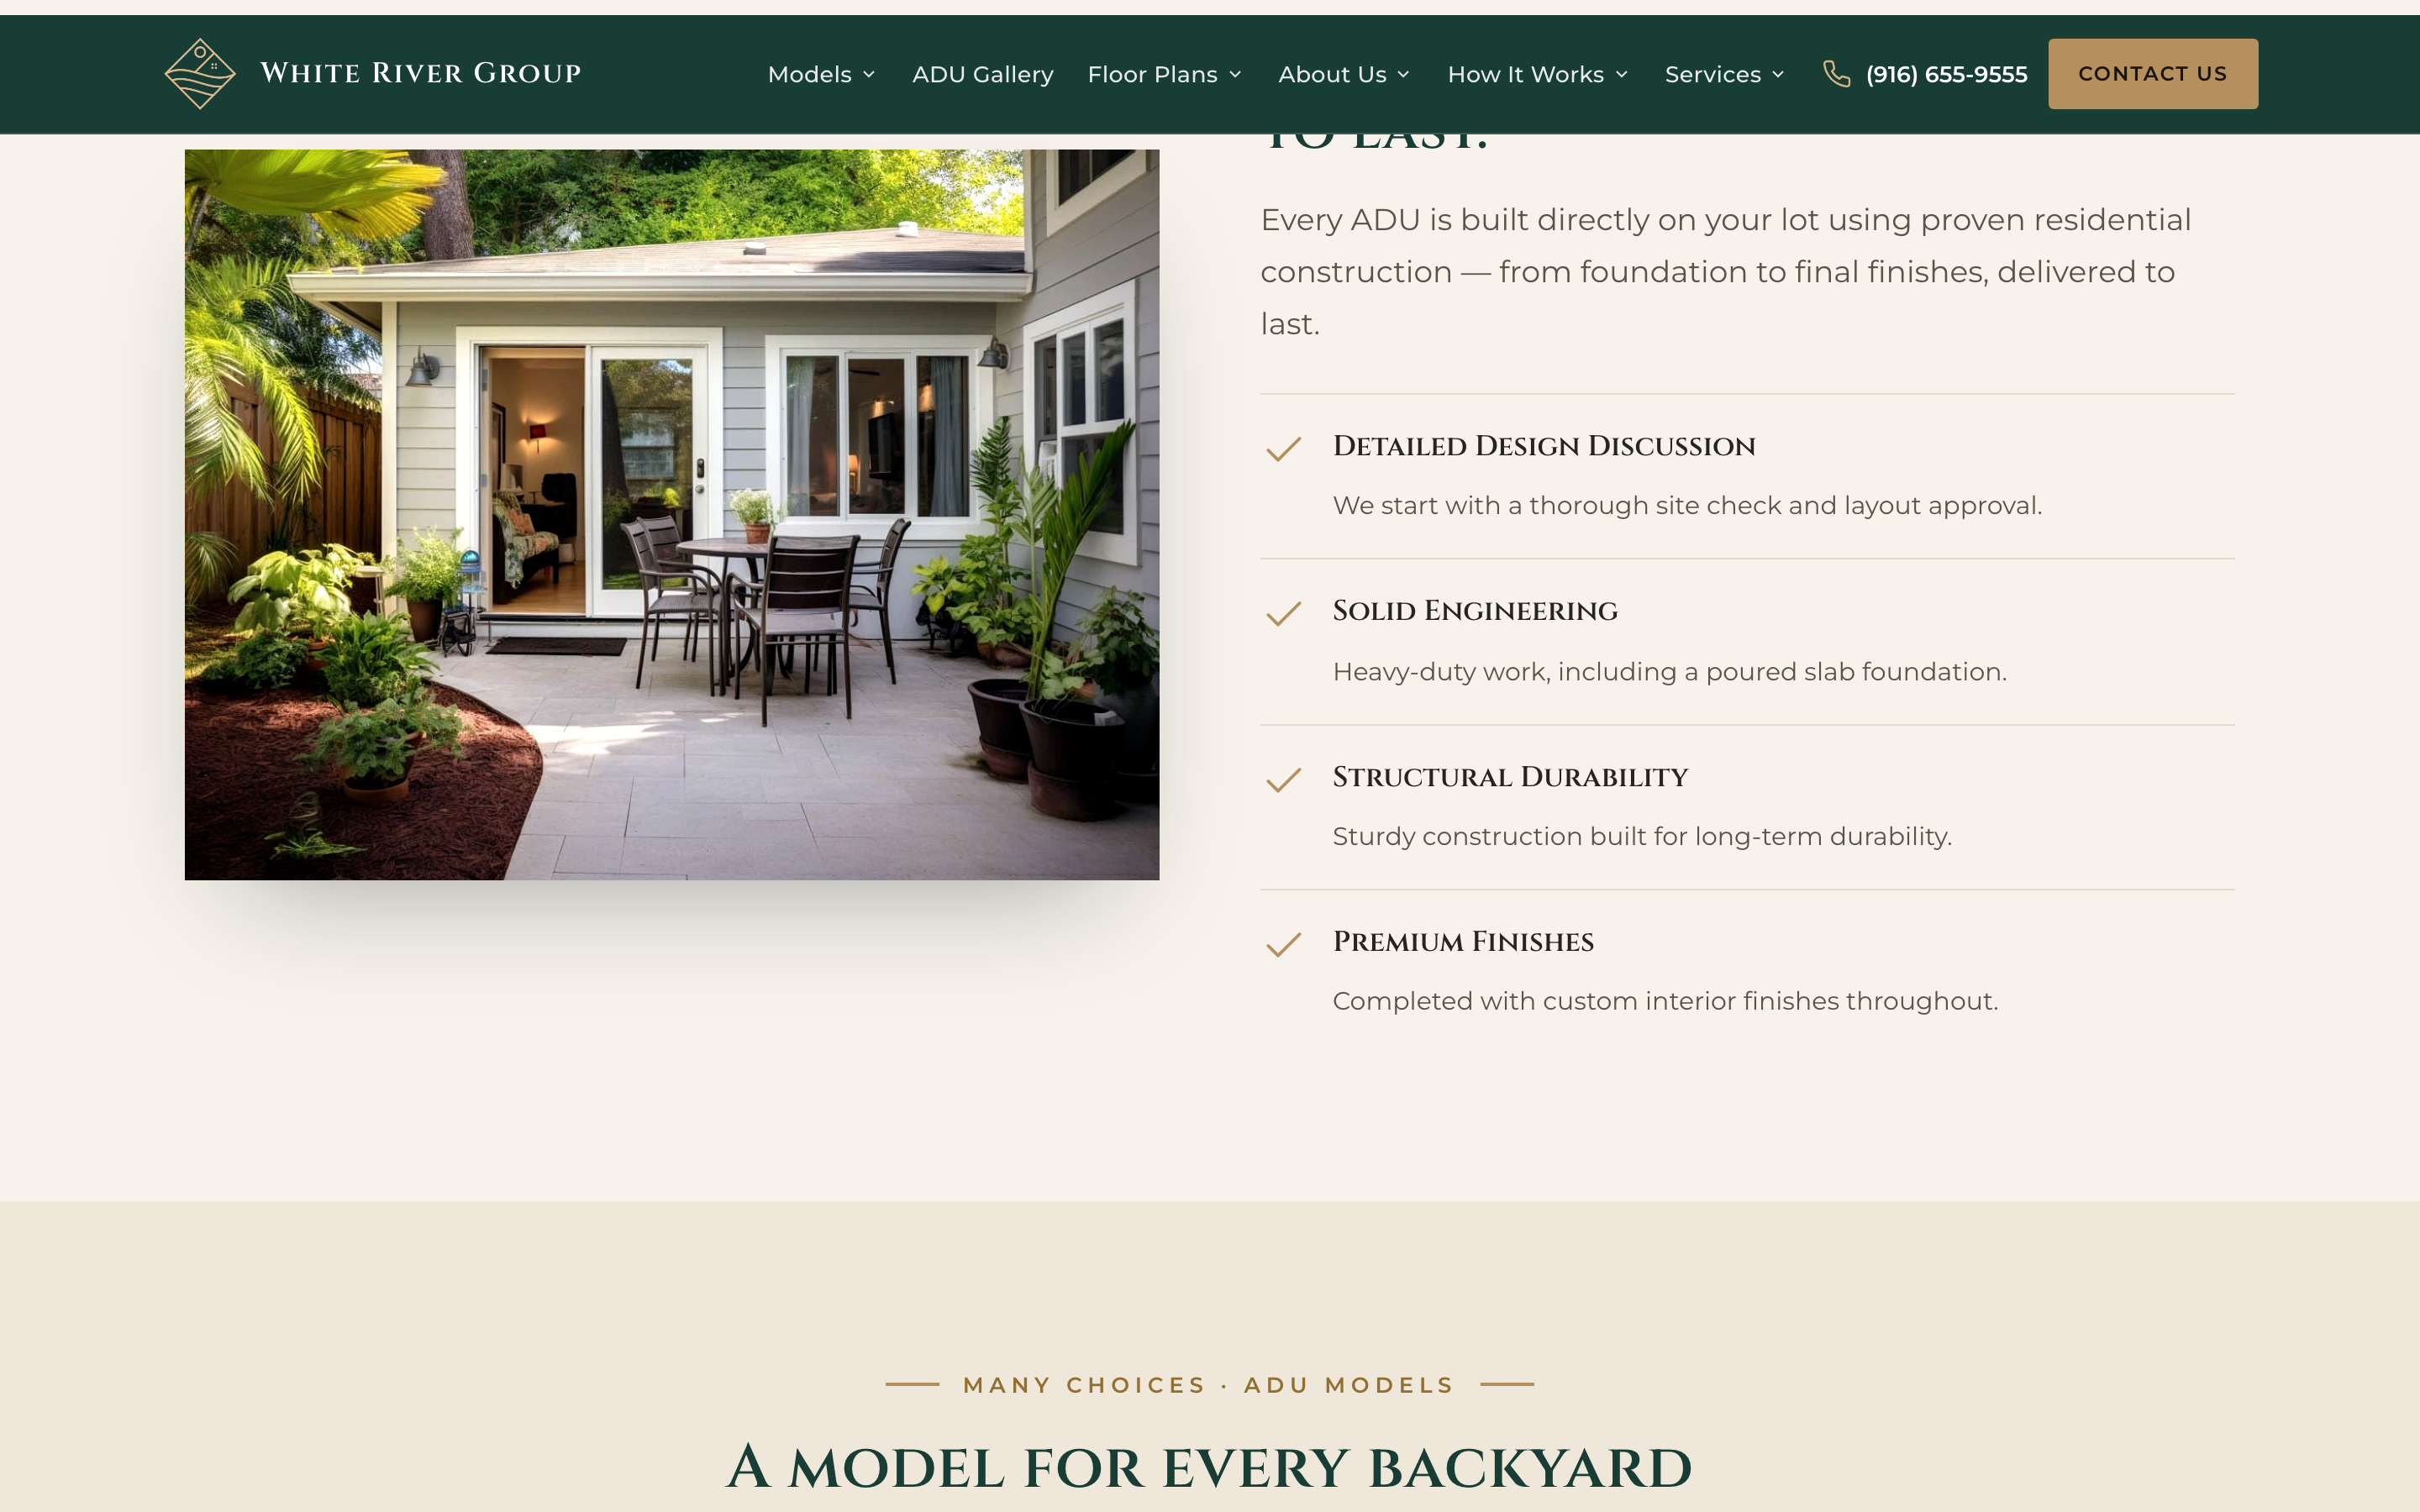
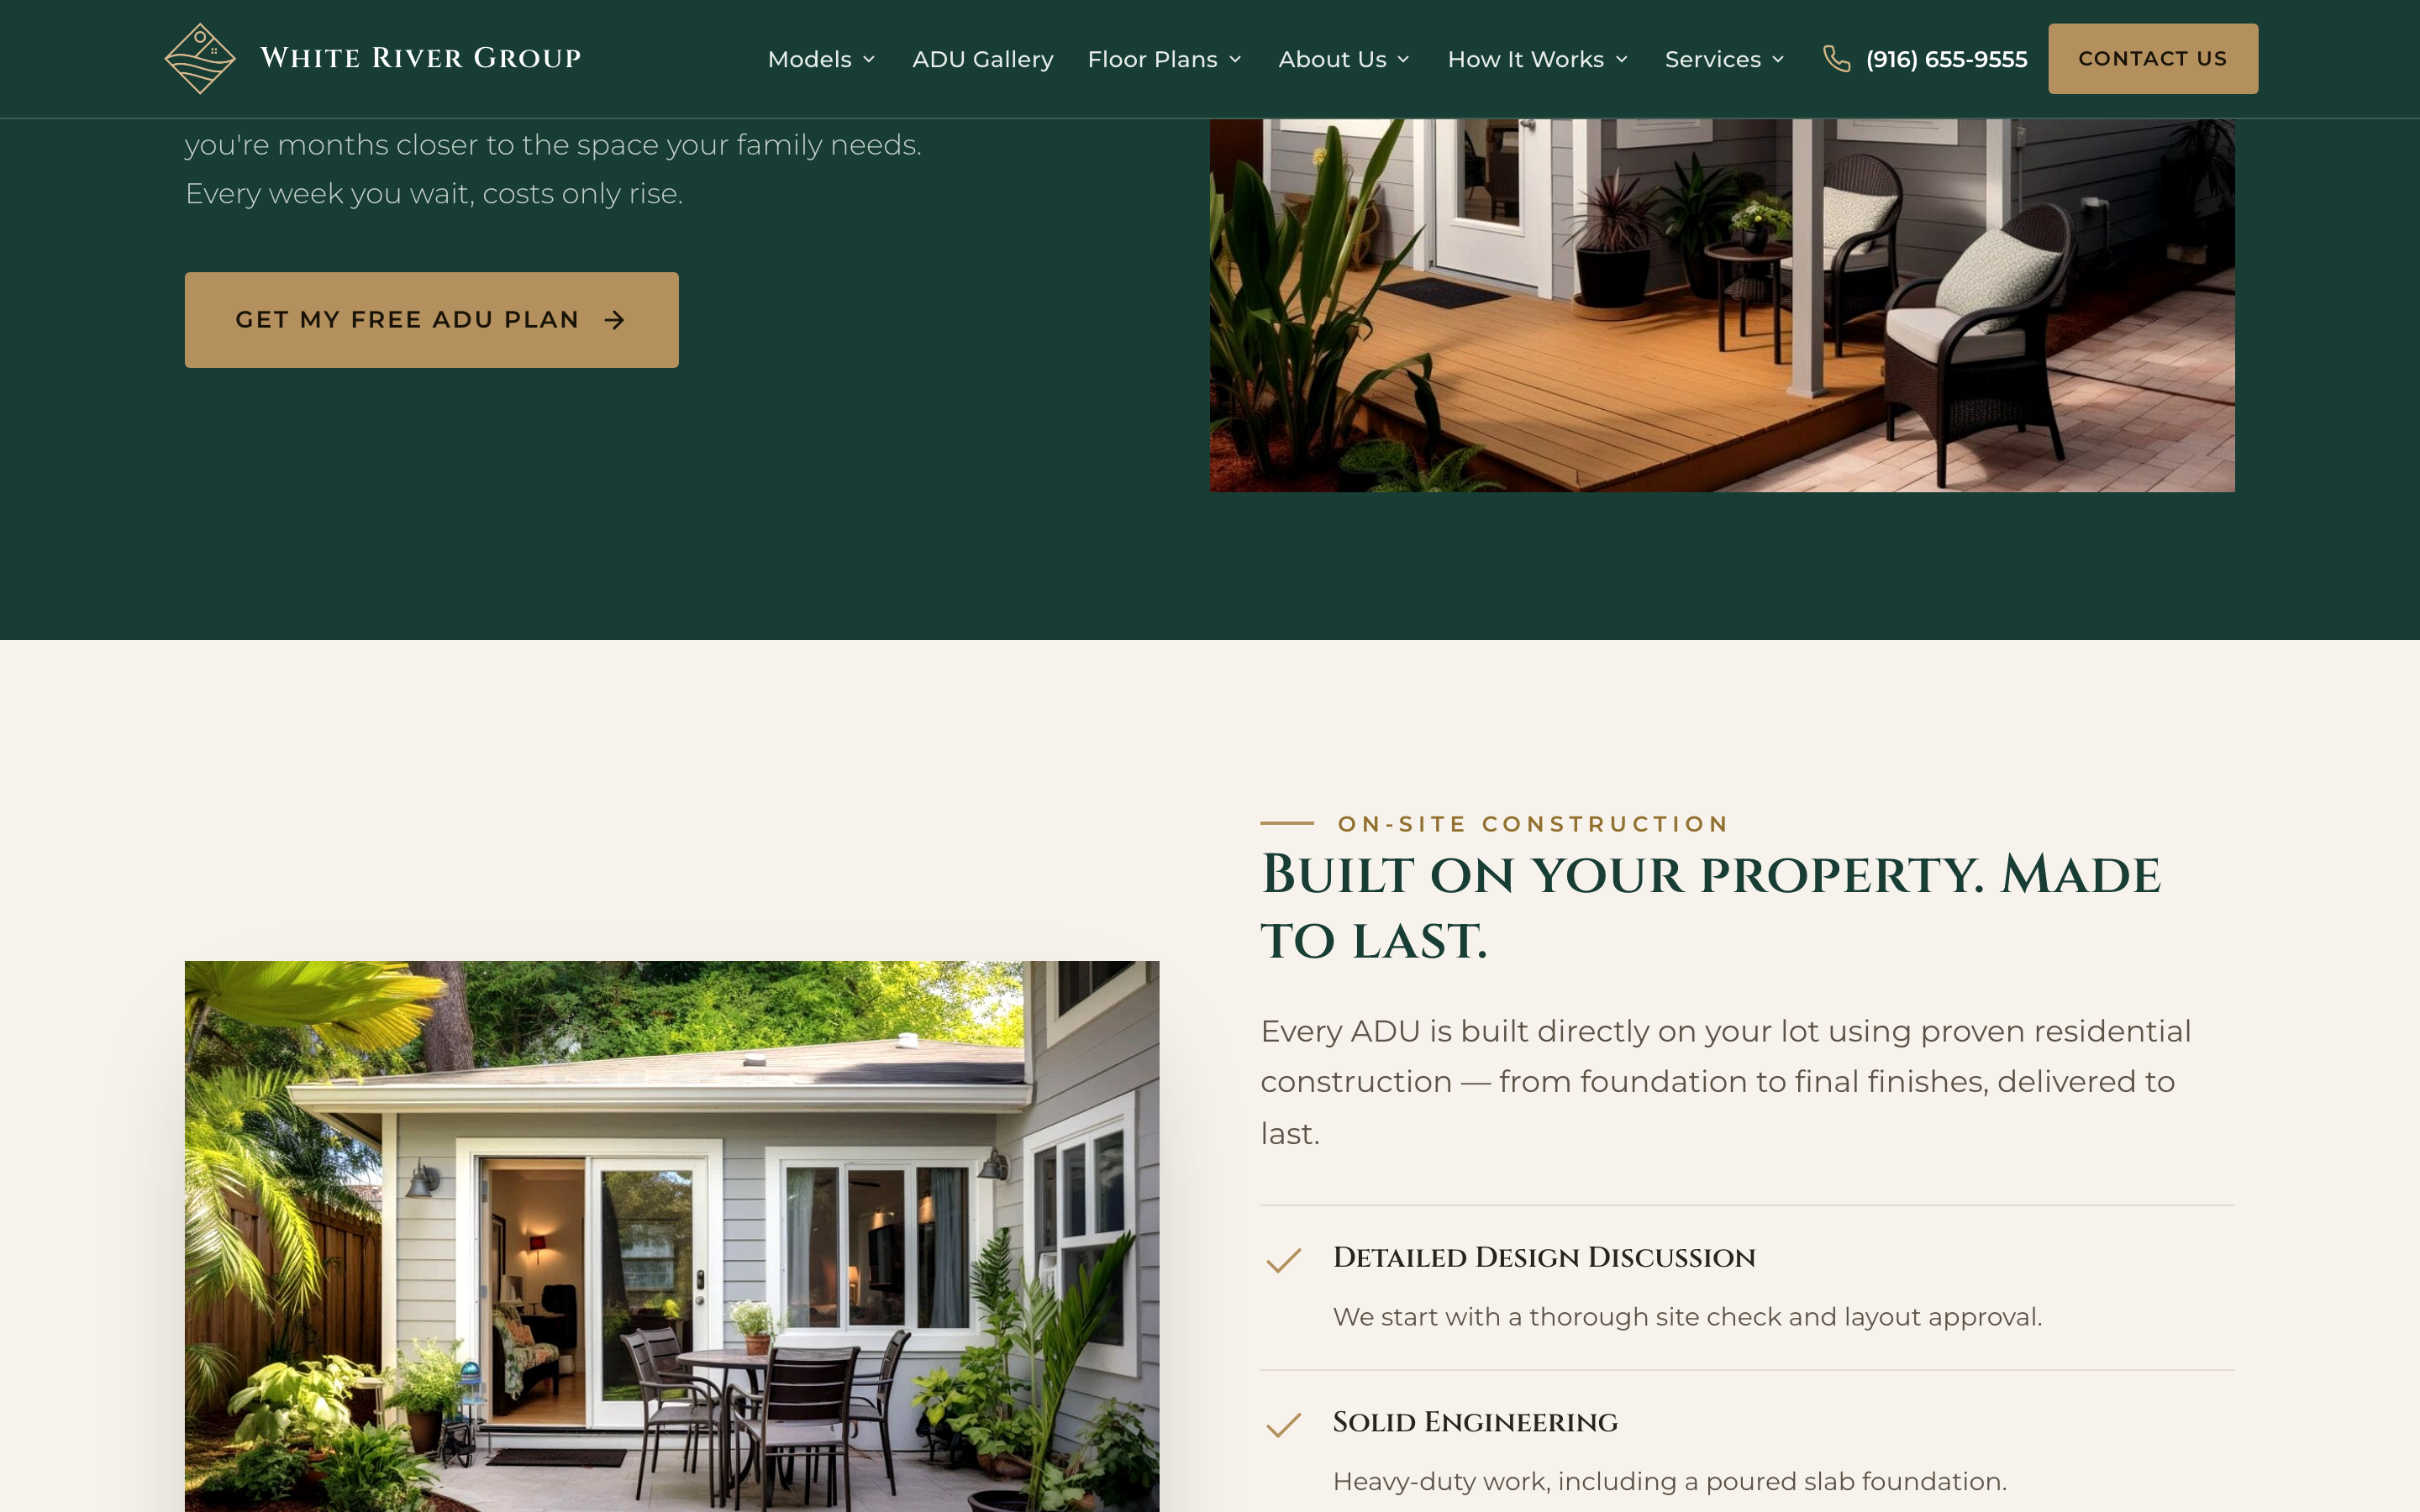
Work gallery: drop N design, add Sailing School Lang #2, fixes
- Remove N design (own portfolio) tile; move Sailing School Lang (yachts)
  into the #2 slot — 11 projects total
- Fix White River first slide (hero image hadn't loaded) — re-captured
  with networkidle so the proper homepage cover shows
- Remove the "Concept" badge from all tiles
- Header no longer fixed on this page (position: absolute) — scrolls away,
  no logo overlapping content
- Add a small "Back to home" button below the gallery, same as the top

diff --git a/work.html b/work.html
@@ -19,7 +19,11 @@
   <link rel="stylesheet" href="main.css?v=50" />
 
   <style id="work-gallery">
+    /* На этой странице меню НЕ фиксированное — уезжает при скролле */
+    .nav { position: absolute !important; }
+
     .wg-hero { text-align: center; padding: clamp(90px, 14vh, 150px) var(--pad) 10px; }
+    .wg-foot-back { display: flex; justify-content: center; padding: 0 var(--pad) clamp(60px, 9vh, 100px); margin-top: -30px; }
     .wg-hero__back {
       display: inline-block; margin-bottom: 22px; color: var(--muted);
       text-decoration: none; font-size: 14px; font-weight: 500;
@@ -149,7 +153,6 @@
 
     <article class="pcard">
       <div class="pcard__media">
-        <span class="pcard__concept" data-i18n="wg.concept">Concept</span>
         <div class="pcard__track">
           <div class="pcard__slide"><img src="assets/projects/artistic-1.png" alt="Artistic &amp; Co. — 1" loading="lazy" /></div>
           <div class="pcard__slide"><img src="assets/projects/artistic-2.png" alt="Artistic &amp; Co. — 2" loading="lazy" /></div>
@@ -169,24 +172,23 @@
     <article class="pcard">
       <div class="pcard__media">
         <div class="pcard__track">
-          <div class="pcard__slide"><img src="assets/projects/portfolio-1.png" alt="N design — Portfolio — 1" loading="lazy" /></div>
-          <div class="pcard__slide"><img src="assets/projects/portfolio-2.png" alt="N design — Portfolio — 2" loading="lazy" /></div>
-          <div class="pcard__slide"><img src="assets/projects/portfolio-3.png" alt="N design — Portfolio — 3" loading="lazy" /></div>
+          <div class="pcard__slide"><img src="assets/projects/wassersport-1.png" alt="Sailing School Lang — 1" loading="lazy" /></div>
+          <div class="pcard__slide"><img src="assets/projects/wassersport-2.png" alt="Sailing School Lang — 2" loading="lazy" /></div>
+          <div class="pcard__slide"><img src="assets/projects/wassersport-3.png" alt="Sailing School Lang — 3" loading="lazy" /></div>
         </div>
         <button class="pcard__nav pcard__nav--prev" type="button" aria-label="Previous">‹</button>
         <button class="pcard__nav pcard__nav--next" type="button" aria-label="Next">›</button>
         <div class="pcard__dots"></div>
       </div>
       <div class="pcard__body">
-        <span class="pcard__tag" data-i18n="wg.t.portfolio">Portfolio</span>
-        <h2 class="pcard__title">N design — Portfolio</h2>
-        <a href="https://natalia-arvut.github.io/portfolio-ch/" target="_blank" rel="noopener" class="pcard__btn">Website</a>
+        <span class="pcard__tag" data-i18n="wg.t.landing">Landing page</span>
+        <h2 class="pcard__title">Sailing School Lang</h2>
+        <a href="https://natalia-arvut.github.io/wassersport/" target="_blank" rel="noopener" class="pcard__btn">Website</a>
       </div>
     </article>
 
     <article class="pcard">
       <div class="pcard__media">
-        <span class="pcard__concept" data-i18n="wg.concept">Concept</span>
         <div class="pcard__track">
           <div class="pcard__slide"><img src="assets/projects/meier-1.png" alt="Meier Tours — 1" loading="lazy" /></div>
           <div class="pcard__slide"><img src="assets/projects/meier-2.png" alt="Meier Tours — 2" loading="lazy" /></div>
@@ -205,7 +207,6 @@
 
     <article class="pcard">
       <div class="pcard__media">
-        <span class="pcard__concept" data-i18n="wg.concept">Concept</span>
         <div class="pcard__track">
           <div class="pcard__slide"><img src="assets/projects/waeckerlin-1.png" alt="Wäckerlin — 1" loading="lazy" /></div>
           <div class="pcard__slide"><img src="assets/projects/waeckerlin-2.png" alt="Wäckerlin — 2" loading="lazy" /></div>
@@ -224,7 +225,6 @@
 
     <article class="pcard">
       <div class="pcard__media">
-        <span class="pcard__concept" data-i18n="wg.concept">Concept</span>
         <div class="pcard__track">
           <div class="pcard__slide"><img src="assets/projects/stoecklin-1.png" alt="Stöcklin — 1" loading="lazy" /></div>
           <div class="pcard__slide"><img src="assets/projects/stoecklin-2.png" alt="Stöcklin — 2" loading="lazy" /></div>
@@ -243,7 +243,6 @@
 
     <article class="pcard">
       <div class="pcard__media">
-        <span class="pcard__concept" data-i18n="wg.concept">Concept</span>
         <div class="pcard__track">
           <div class="pcard__slide"><img src="assets/projects/solbus-1.png" alt="Solbus Travel — 1" loading="lazy" /></div>
           <div class="pcard__slide"><img src="assets/projects/solbus-2.png" alt="Solbus Travel — 2" loading="lazy" /></div>
@@ -262,7 +261,6 @@
 
     <article class="pcard">
       <div class="pcard__media">
-        <span class="pcard__concept" data-i18n="wg.concept">Concept</span>
         <div class="pcard__track">
           <div class="pcard__slide"><img src="assets/projects/nuessli-1.png" alt="Nüssli — 1" loading="lazy" /></div>
           <div class="pcard__slide"><img src="assets/projects/nuessli-2.png" alt="Nüssli — 2" loading="lazy" /></div>
@@ -281,7 +279,6 @@
 
     <article class="pcard">
       <div class="pcard__media">
-        <span class="pcard__concept" data-i18n="wg.concept">Concept</span>
         <div class="pcard__track">
           <div class="pcard__slide"><img src="assets/projects/korrodi-1.png" alt="GM Korrodi — 1" loading="lazy" /></div>
           <div class="pcard__slide"><img src="assets/projects/korrodi-2.png" alt="GM Korrodi — 2" loading="lazy" /></div>
@@ -300,7 +297,6 @@
 
     <article class="pcard">
       <div class="pcard__media">
-        <span class="pcard__concept" data-i18n="wg.concept">Concept</span>
         <div class="pcard__track">
           <div class="pcard__slide"><img src="assets/projects/avis-1.png" alt="AVIS Industrial — 1" loading="lazy" /></div>
           <div class="pcard__slide"><img src="assets/projects/avis-2.png" alt="AVIS Industrial — 2" loading="lazy" /></div>
@@ -319,7 +315,6 @@
 
     <article class="pcard">
       <div class="pcard__media">
-        <span class="pcard__concept" data-i18n="wg.concept">Concept</span>
         <div class="pcard__track">
           <div class="pcard__slide"><img src="assets/projects/razgon-1.png" alt="Razgon Agency — 1" loading="lazy" /></div>
           <div class="pcard__slide"><img src="assets/projects/razgon-2.png" alt="Razgon Agency — 2" loading="lazy" /></div>
@@ -338,7 +333,6 @@
 
     <article class="pcard">
       <div class="pcard__media">
-        <span class="pcard__concept" data-i18n="wg.concept">Concept</span>
         <div class="pcard__track">
           <div class="pcard__slide"><img src="assets/projects/white-river-1.png" alt="White River — 1" loading="lazy" /></div>
           <div class="pcard__slide"><img src="assets/projects/white-river-2.png" alt="White River — 2" loading="lazy" /></div>
@@ -355,27 +349,11 @@
       </div>
     </article>
 
-    <article class="pcard">
-      <div class="pcard__media">
-        <span class="pcard__concept" data-i18n="wg.concept">Concept</span>
-        <div class="pcard__track">
-          <div class="pcard__slide"><img src="assets/projects/wassersport-1.png" alt="Sailing School Lang — 1" loading="lazy" /></div>
-          <div class="pcard__slide"><img src="assets/projects/wassersport-2.png" alt="Sailing School Lang — 2" loading="lazy" /></div>
-          <div class="pcard__slide"><img src="assets/projects/wassersport-3.png" alt="Sailing School Lang — 3" loading="lazy" /></div>
-        </div>
-        <button class="pcard__nav pcard__nav--prev" type="button" aria-label="Previous">‹</button>
-        <button class="pcard__nav pcard__nav--next" type="button" aria-label="Next">›</button>
-        <div class="pcard__dots"></div>
-      </div>
-      <div class="pcard__body">
-        <span class="pcard__tag" data-i18n="wg.t.landing">Landing page</span>
-        <h2 class="pcard__title">Sailing School Lang</h2>
-        <a href="https://natalia-arvut.github.io/wassersport/" target="_blank" rel="noopener" class="pcard__btn">Website</a>
-      </div>
-    </article>
-
   </main>
 
+  <div class="wg-foot-back">
+    <a href="index.html#work" class="wg-hero__back" data-i18n="wg.back">← Back to home</a>
+  </div>
 
   <!-- ФУТЕР -->
   <footer class="footer">